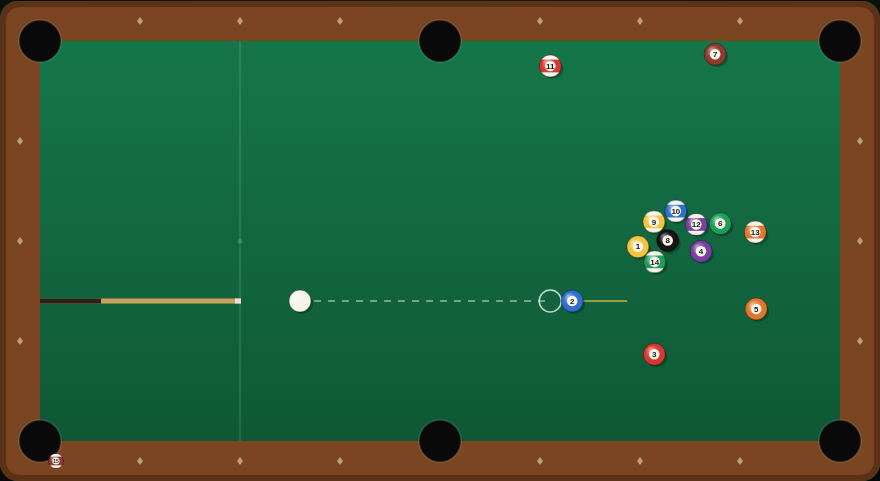
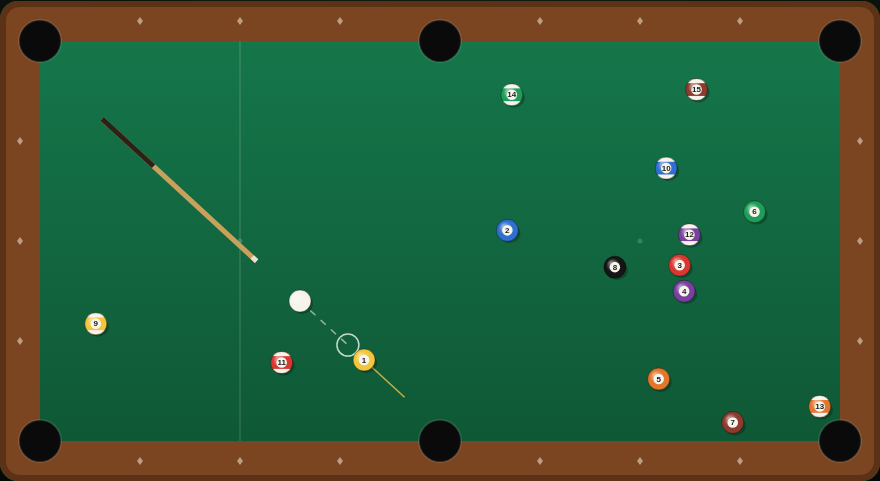
Tune Pool break physics and polish the table rendering
The original constants left a centre-ball break barely scattering the
rack: momentum bled away through ~30 near-elastic collisions and the
pack stayed clumped in a quarter of the table.

- Raise ball restitution to 0.99 and drop rolling friction to 150 px/s²
  so a break carries energy through the whole pack
- Raise full-power shot speed to 1900 px/s
- Nudge each racked ball off the lattice by a fixed fraction of a pixel
  derived from its number: a perfectly symmetric rack hit dead centre is
  a degenerate case. The offset is a pure function of the ball number,
  so the rack is still identical every game
- Draw the cue stick grip at the far end and clip the stick to the felt,
  add rail sight diamonds, hide the ball-in-hand ghost on the
  computer's turn
- Mark the game Complete in the root README and refresh the screenshot

Measured over 25 computer-vs-computer games: no stalls, 18 shots per
game on average, an 18% foul rate and an even win split.

Claude-Session: https://claude.ai/code/session_01TToJneGAGxheDn6GtAJmNk

diff --git a/Pool/game.js b/Pool/game.js
@@ -34,7 +34,7 @@ const MID_Y = (PLAY_T + PLAY_B) / 2;
 const FRICTION = 150;          // px/s^2, constant rolling deceleration
 const STOP_SPEED = 5;          // px/s below which a ball is parked
 const CUSHION_RESTITUTION = 0.92;
-const BALL_RESTITUTION = 0.96;
+const BALL_RESTITUTION = 0.99;
 const SUB_DT = 1 / 240;
 const MAX_STEP_DIST = 3;       // px a ball may travel in one substep
 
@@ -171,14 +171,17 @@ function normalizeAngle(a) {
 function rackBalls() {
     balls = [{ n: 0, x: HEAD_X, y: MID_Y, vx: 0, vy: 0, potted: false, type: 'cue', color: '#f6f3ea' }];
 
-    const gap = BALL_R * 2 + 0.3;
-    const rowDx = BALL_R * 2 * Math.cos(Math.PI / 6);
+    // A real rack is never perfectly symmetric, and a perfectly symmetric one
+    // barely scatters on a centre-ball break. Nudge each ball by a fixed
+    // fraction of a pixel — deterministic, so every game still racks the same.
+    const gap = BALL_R * 2 + 1.4;
+    const rowDx = 19.6;
     RACK_ROWS.forEach((row, i) => {
         row.forEach((n, j) => {
             balls.push({
                 n,
                 x: FOOT_X + i * rowDx,
-                y: MID_Y + (j - i / 2) * gap,
+                y: MID_Y + (j - i / 2) * gap + (((n * 37) % 7) - 3) / 10,
                 vx: 0,
                 vy: 0,
                 potted: false,
@@ -813,7 +816,7 @@ function render() {
     }
 
     // Ball-in-hand ghost.
-    if (state === 'ballinhand') {
+    if (state === 'ballinhand' && !isAiTurn()) {
         ctx.save();
         ctx.setLineDash([4, 4]);
         ctx.strokeStyle = 'rgba(255,255,255,0.7)';

diff --git a/Pool/DESIGN.md b/Pool/DESIGN.md
@@ -21,12 +21,17 @@ best ghost-ball shot, or a second human in hot-seat mode.
 | Ball radius | 11 px |
 | Pockets | 6, radius 21 — four at the playfield corners, two at the middle of the long rails |
 | Cue ball spot | head spot, 25% along the table (240, 240) |
+| Shot speed | 250 px/s at rest on the meter, 1900 px/s at full power |
 | Rack apex | foot spot, 75% along the table (640, 240) |
 
 Balls 1–7 are solids, 9–15 are stripes, 8 is black, 0 is the cue ball. The rack
 is a fixed, deterministic triangle (no shuffling) with the 8-ball in the middle
 of the third row and a solid/stripe in the two back corners, so every game
-starts from an identical, reproducible position.
+starts from an identical, reproducible position. Each ball is nudged off the
+lattice by a fixed fraction of a pixel derived from its number: a perfectly
+symmetric rack hit dead centre barely scatters, and a real rack is never
+perfect. The offset is a pure function of the ball number, so the rack is still
+byte-identical every game.
 
 ## Physics
 
@@ -34,7 +39,7 @@ The simulation is a fixed-substep integrator. `step(dt)` splits `dt` into
 substeps of at most 1/240 s and, per substep:
 
 1. **Integrate** — `x += vx·dt`, `y += vy·dt`.
-2. **Friction** — a constant rolling deceleration of 240 px/s² applied against
+2. **Friction** — a constant rolling deceleration of 150 px/s² applied against
    the direction of travel; below 5 px/s a ball is snapped to rest. Because the
    deceleration is constant (not drag-proportional), balls travel a predictable
    `v²/2a` distance and always come to a complete stop, which keeps shots
@@ -46,7 +51,8 @@ substeps of at most 1/240 s and, per substep:
    normal velocity is reflected and scaled by a restitution of 0.92.
 5. **Ball-to-ball** — equal-mass elastic collision along the contact normal:
    the normal components of the two velocities are exchanged (scaled by a
-   restitution of 0.96) and the tangential components are kept. Overlap is
+   restitution of 0.99 — nearly elastic, so a break still carries energy
+   through the whole pack) and the tangential components are kept. Overlap is
    resolved by pushing both balls apart by half the penetration each, so balls
    never sink into one another.
 

diff --git a/README.md b/README.md
@@ -113,7 +113,7 @@ For each new game, put it in a new folder. Each game should have its own README.
 | Marble Spiral | [MarbleSpiral/](MarbleSpiral/) | Complete |
 | Barrel Climb | [BarrelClimb/](BarrelClimb/) | Complete |
 | BurgerTime | [BurgerTime/](BurgerTime/) | Complete |
-| 8-Ball Pool | [Pool/](Pool/) | In Progress |
+| 8-Ball Pool | [Pool/](Pool/) | Complete |
 
 ## Playing
 
